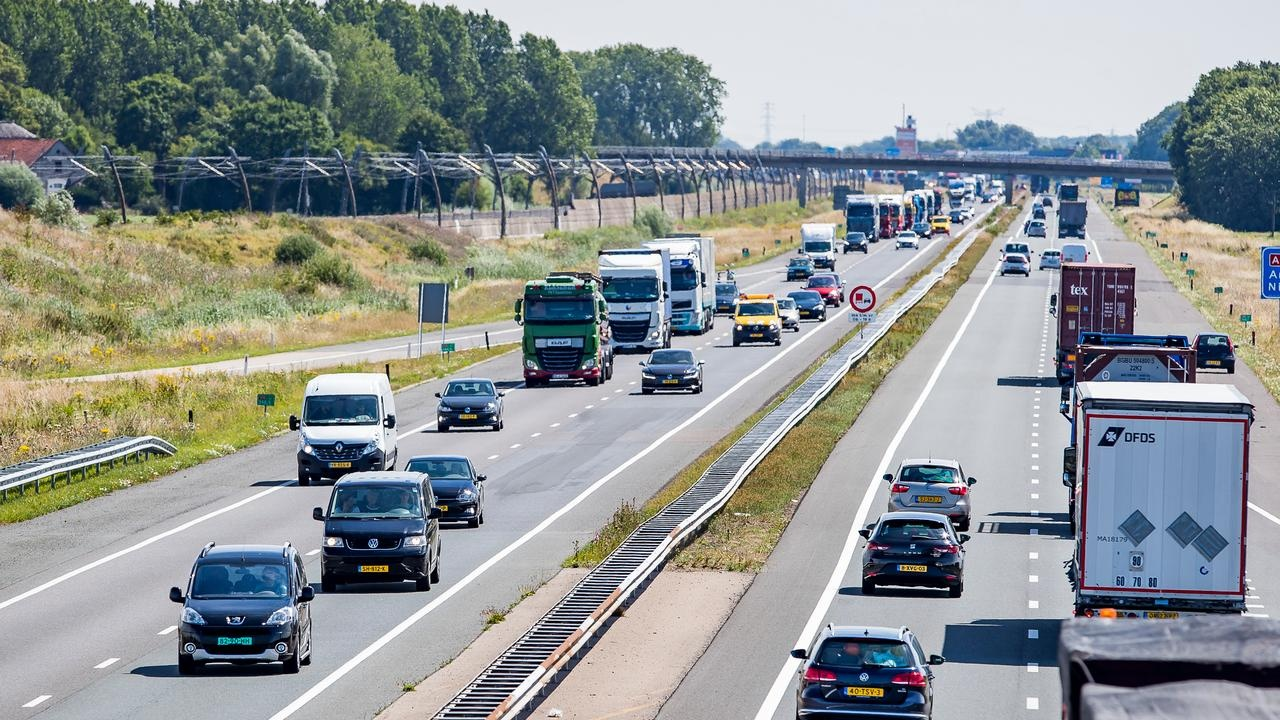
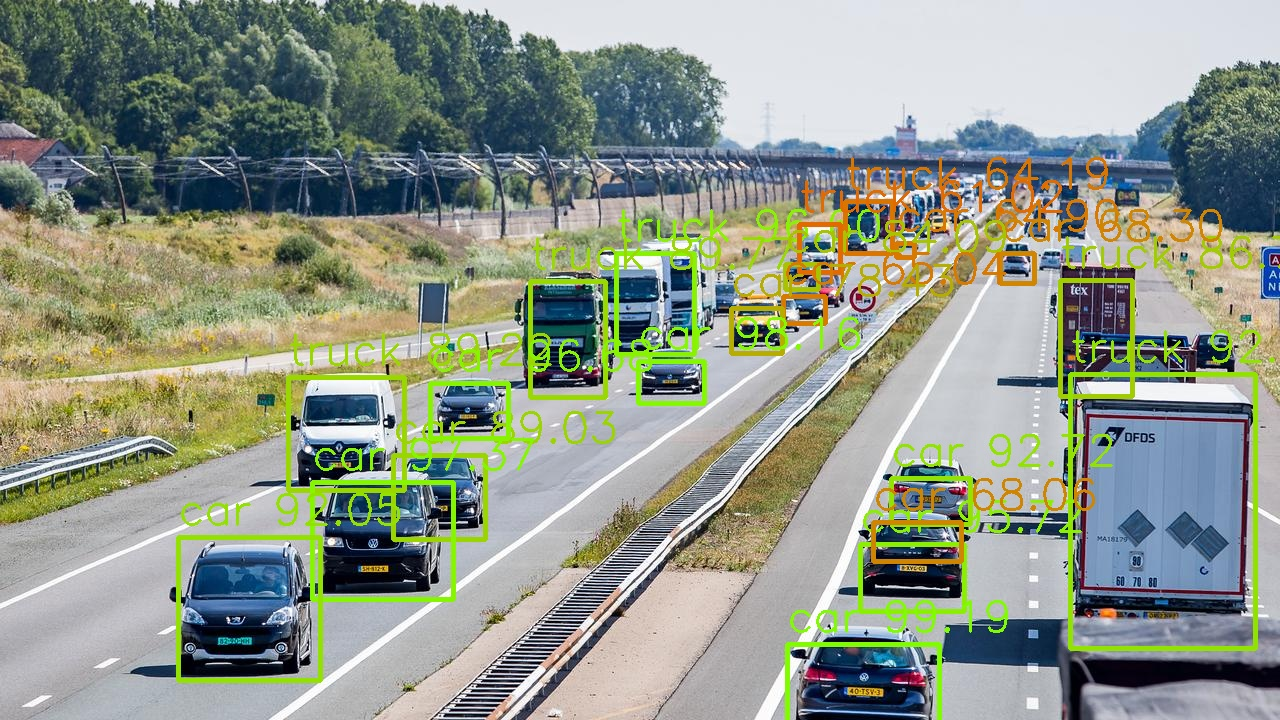
Dit zou nu moeten werken

Changed region(s): [[0.125, 0.2139, 1.0, 1.0]]

diff --git a/functions.py b/functions.py
@@ -11,7 +11,6 @@ import random
 from cv2 import cv2
 import numpy as np
 
-colorG = 255
 
 def br():
     print('\n')
@@ -145,23 +144,17 @@ def draw_boxes(filename, v_boxes, v_labels, v_scores, obj_thresh):
     
         label = "%s %.2f" % (v_labels[i], (box.get_score() * 100))
 
-<<<<<<< HEAD
-        colorR = 255 - (255 * box.get_score())
-        colorG = 255 * box.get_score()
-        colorB = randomize(150, 180)
-=======
-        colorR = 255 - (255*box.get_score())
-        colorG = 255*box.get_score()
->>>>>>> abdccf3617f83ac1c03f97fc1d0088bb13223955
+        colorR = int(round(383 - (255 * box.get_score())))
+        colorG = int(round((128 * box.get_score()) + (255 * (box.get_score() - 0.5))))
+        colorB = 0 # randomize(0, 20)
 
-
-        cv2.rectangle(image, (box.xmin,box.ymin), (box.xmax,box.ymax), (colorR, colorG,0), 3)
+        cv2.rectangle(image, (box.xmin,box.ymin), (box.xmax,box.ymax), (colorB, colorG, colorR), 3)
         cv2.putText(image, 
             label, 
             (box.xmin, box.ymin - 13), 
             cv2.FONT_HERSHEY_SIMPLEX, 
             0.002 * image.shape[0], 
-            (0,colorG,colorB), 2)
+            (colorB, colorG, colorR), 2)
 
     return image
 
@@ -177,17 +170,17 @@ def draw_boxes_video(image, v_boxes, v_labels, v_scores, obj_thresh):
     
         label = "%s %.2f" % (v_labels[i], (box.get_score() * 100))
 
-        colorR = 255 - (255*box.get_score())
-        colorG = 255*box.get_score()
+        colorR = int(round(383 - (255 * box.get_score())))
+        colorG = int(round((128 * box.get_score()) + (255 * (box.get_score() - 0.5))))
+        colorB = 0 # randomize(0, 20)
 
-
-        cv2.rectangle(image, (box.xmin,box.ymin), (box.xmax,box.ymax), (colorR, colorG, 0), 3)
+        cv2.rectangle(image, (box.xmin,box.ymin), (box.xmax,box.ymax), (colorB, colorG, colorR), 3)
         cv2.putText(image, 
             label, 
             (box.xmin, box.ymin - 13), 
             cv2.FONT_HERSHEY_SIMPLEX, 
             0.002 * image.shape[0], 
-            (colorR,colorG,0), 2)
+            (colorB, colorG, colorR), 2)
 
 
     return image

diff --git a/videoDetectTest.py b/videoDetectTest.py
@@ -38,6 +38,8 @@ anchors = [[116,90, 156,198, 373,326], [30,61, 62,45, 59,119], [10,13, 16,30, 33
 imageFile = "zebra.jpg"
 input_w, input_h = (416, 416)
 
+tolerance = 0.5
+
 
 # dit zijn alle dingen die we willen herkennen, kijk op cocodataset.org om te zien welke er allemaal zijn
 labels = ["person", "bicycle", "car", "motorbike", "aeroplane", "bus", "train", "truck",
@@ -136,7 +138,7 @@ def decodeFrame(image, image_w, image_h, model, yhat, frame):
     # Zet de shape en size van de boxes weer om naar het originele plaatje ipv het 416x416  plaatje
     dF.correct_yolo_boxes(boxes, image_h, image_w, input_h, input_w)
 
-    dF.do_nms(boxes, 0.5) # zorg ervoor dat overlappende bounding boxes weg gehaald worden( 0.5 staat voor bounding boxes die 50% over een komen)
+    dF.do_nms(boxes, tolerance) # zorg ervoor dat overlappende bounding boxes weg gehaald worden( 0.5 staat voor bounding boxes die 50% over een komen)
 
     v_boxes, v_labels, v_scores = f.get_boxes(boxes, labels, propability)
 
@@ -144,7 +146,7 @@ def decodeFrame(image, image_w, image_h, model, yhat, frame):
 
 
     
-    imageFinal = f.draw_boxes_video(frame, v_boxes, v_labels, v_scores, 0.5)
+    imageFinal = f.draw_boxes_video(frame, v_boxes, v_labels, v_scores, tolerance)
 
 
     return imageFinal

diff --git a/videoDetect.py b/videoDetect.py
@@ -114,8 +114,6 @@ def __main__():
     while(True):
 
         ret, frame = video_capture.read()
-        
-        print(frame)
 
         imageFinal = videoDetectTest.__main__(model, frame)
 
